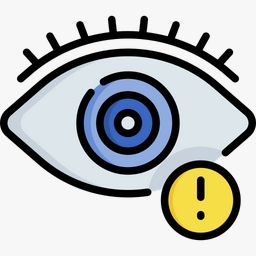
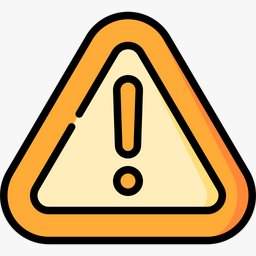
added "fruits" page

diff --git a/app/(tabs)/fridge/fridge_fruits.tsx b/app/(tabs)/fridge/fridge_fruits.tsx
@@ -1,0 +1,159 @@
+import { useRouter } from "expo-router";
+import React from "react";
+import {
+  Image,
+  SafeAreaView,
+  StyleSheet,
+  Text,
+  TextInput,
+  TouchableOpacity,
+  View,
+  FlatList,
+} from "react-native";
+
+const data = [
+  {
+    id: "1",
+    name: "Banana",
+    img: require("../../../assets/images/fridge_icons/banana.png"),
+    statusIcon: require("../../../assets/images/fridge_icons/expired.png"),
+    days: 0,
+    count: 4,
+  },
+  {
+    id: "2",
+    name: "Kiwi",
+    img: require("../../../assets/images/fridge_icons/kiwi.png"),
+    statusIcon: require("../../../assets/images/fridge_icons/eatable.png"),
+    days: 5,
+    count: 3,
+  },
+  {
+    id: "3",
+    name: "Apples",
+    img: require("../../../assets/images/fridge_icons/apple.png"),
+    statusIcon: require("../../../assets/images/fridge_icons/warning.png"),
+    days: 2,
+    count: 2,
+  },
+  {
+    id: "4",
+    name: "Avocado",
+    img: require("../../../assets/images/fridge_icons/avocado.png"),
+    statusIcon: require("../../../assets/images/fridge_icons/warning.png"),
+    days: 2,
+    count: 2,
+  },
+];
+
+export default function Fruits() {
+  const router = useRouter();
+
+  return (
+    <SafeAreaView style={styles.container}>
+      {/* Header */}
+      <View style={styles.header}>
+        <Image
+          source={require("../../../assets/images/fridge_icons/profile-picture.png")}
+          style={styles.avatar}
+        />
+      </View>
+
+      {/* Title */}
+      <Text style={styles.title}>Fruits</Text>
+
+      {/* Search */}
+      <View style={styles.searchContainer}>
+        <TextInput
+          placeholder="Find fruits"
+          placeholderTextColor="#999"
+          style={styles.searchInput}
+        />
+      </View>
+
+      {/* Section Label */}
+      <View style={styles.labelContainer}>
+        <Text style={styles.sectionLabel}>FRUITS</Text>
+        <TouchableOpacity>
+          <Text style={styles.filterText}>Filter</Text>
+        </TouchableOpacity>
+      </View>
+
+      {/* List */}
+      <FlatList
+        data={data}
+        keyExtractor={(item) => item.id}
+        renderItem={({ item }) => (
+          <View style={styles.row}>
+            <Image source={item.img} style={styles.itemImage} />
+
+            <View style={styles.info}>
+              <View style={styles.statusRow}>
+                <Image source={item.statusIcon} style={styles.statusIcon} />
+                <Text style={styles.statusText}>
+                  {item.days} {item.days === 1 ? "Day" : "Days"} Remaining
+                </Text>
+              </View>
+              <Text style={styles.itemName}>{item.name}</Text>
+            </View>
+
+            <View style={styles.countContainer}>
+              <Text style={styles.count}>{item.count}</Text>
+              <Image
+                source={require("../../../assets/images/fridge_icons/fridge.png")}
+                style={styles.fridgeIcon}
+              />
+            </View>
+          </View>
+        )}
+        ItemSeparatorComponent={() => <View style={styles.separator} />}
+        contentContainerStyle={{ paddingBottom: 20 }}
+      />
+    </SafeAreaView>
+  );
+}
+
+const styles = StyleSheet.create({
+  container: { flex: 1, backgroundColor: "#fff", paddingHorizontal: 20 },
+  header: { flexDirection: "row", alignItems: "center", marginTop: 10 },
+  backArrow: { fontSize: 28, fontWeight: "700", marginRight: 12 },
+  avatar: { width: 40, height: 40, borderRadius: 20 },
+  title: { fontSize: 32, fontWeight: "700", marginTop: 16 },
+  searchContainer: {
+    marginTop: 20,
+    borderWidth: 1,
+    borderColor: "#ccc",
+    borderRadius: 8,
+  },
+  searchInput: { height: 40, paddingHorizontal: 12, fontSize: 16 },
+  labelContainer: {
+    flexDirection: "row",
+    justifyContent: "space-between",
+    alignItems: "center",
+    marginTop: 24,
+  },
+  sectionLabel: { fontSize: 18, fontWeight: "700" },
+  filterText: { fontSize: 14, color: "#007AFF" },
+  row: {
+    flexDirection: "row",
+    alignItems: "center",
+    paddingVertical: 12,
+  },
+  itemImage: { width: 60, height: 60, resizeMode: "contain" },
+  info: { flex: 1, marginLeft: 12 },
+  statusRow: { flexDirection: "row", alignItems: "center" },
+  statusIcon: { width: 30, height: 30, marginRight: 6 },
+  statusText: { fontSize: 14, color: "#333" },
+  itemName: { fontSize: 16, fontWeight: "600", marginTop: 4 },
+  countContainer: {
+    flexDirection: "row",
+    alignItems: "center",
+  },
+  count: {
+    fontSize: 14,
+    fontWeight: "700",
+    marginRight: 4,
+  },
+  fridgeIcon: { width: 50, height: 50 },
+  separator: { height: 1, backgroundColor: "#eee" },
+});

diff --git a/app/(tabs)/fridge/fridge_items.tsx b/app/(tabs)/fridge/fridge_items.tsx
@@ -1,3 +1,4 @@
+import { useRouter } from "expo-router";
 import React from "react";
 import {
   Image,
@@ -9,9 +10,10 @@ import {
   View,
 } from "react-native";
 
+// add a `route` field matching your screen file names
 const categories = [
-  { id: 1, name: "Fruits",    img: require("../../../assets/images/fridge_icons/fruits.png") },
-  { id: 2, name: "Vegetable", img: require("../../../assets/images/fridge_icons/vegetables.png") },
+  { id: 1, name: "Fruits",    img: require("../../../assets/images/fridge_icons/fruits.png"),    route: "fridge_fruits" },
+  { id: 2, name: "Vegetable", img: require("../../../assets/images/fridge_icons/vegetables.png"), route: "" },
   { id: 3, name: "Dairy",     img: require("../../../assets/images/fridge_icons/dairy.png") },
   { id: 4, name: "Bread",     img: require("../../../assets/images/fridge_icons/bread.png") },
   { id: 5, name: "Drinks",    img: require("../../../assets/images/fridge_icons/drinks.png") },
@@ -19,6 +21,8 @@ const categories = [
 ];
 
 export default function FridgeItems() {
+  const router = useRouter();
+
   return (
     <SafeAreaView style={styles.container}>
       {/* Header */}
@@ -49,10 +53,15 @@ export default function FridgeItems() {
       {/* Categories Grid */}
       <View style={styles.itemsContainer}>
         {categories.map((item) => (
-          <View key={item.id} style={styles.itemCard}>
+          <TouchableOpacity
+            key={item.id}
+            style={styles.itemCard}
+            disabled={!item.route}
+            onPress={() => router.push("/fridge/fridge_fruits")}
+          >
             <Image source={item.img} style={styles.itemImage} />
             <Text style={styles.itemText}>{item.name}</Text>
-          </View>
+          </TouchableOpacity>
         ))}
       </View>
 

diff --git a/app/(tabs)/fridge/_layout.tsx b/app/(tabs)/fridge/_layout.tsx
@@ -1,10 +1,26 @@
 import { Stack } from "expo-router";
 import React from "react";
 
-export default function RootLayout() {
+export default function FridgeStack() {
   return (
     <Stack>
-      <Stack.Screen name="(tabs)" options={{ headerShown: false }} />
+      {/* this will render fridge_home.tsx on /fridge or /fridge/fridge_home */}
+      <Stack.Screen 
+        name="fridge_home" 
+        options={{ headerTitle: "Home" }} 
+      />
+
+      {/* screen for the “Check Fridge” grid */}
+      <Stack.Screen 
+        name="fridge_items" 
+        options={{ headerTitle: "Fridge" }} 
+      />
+
+      {/* screen for Fruits detail */}
+      <Stack.Screen 
+        name="fridge_fruits" 
+        options={{ headerTitle: "Fruits" }} 
+      />
     </Stack>
   );
 }

diff --git a/app/(tabs)/fridge/fridge_home.tsx b/app/(tabs)/fridge/fridge_home.tsx
@@ -1,14 +1,14 @@
 import { useRouter } from "expo-router";
 import React from "react";
 import {
-  Image,
-  SafeAreaView,
-  ScrollView,
-  StyleSheet,
-  Text,
-  TextInput,
-  TouchableOpacity,
-  View,
+    Image,
+    SafeAreaView,
+    ScrollView,
+    StyleSheet,
+    Text,
+    TextInput,
+    TouchableOpacity,
+    View,
 } from "react-native";
 
 const fridgeItems = [
@@ -176,8 +176,8 @@ const styles = StyleSheet.create({
         marginTop: 5,
     },
     statusIcon: {
-        width: 20,
-        height: 20,
+        width: 30,
+        height: 30,
         marginRight: 4,
     },
     statusText: {
